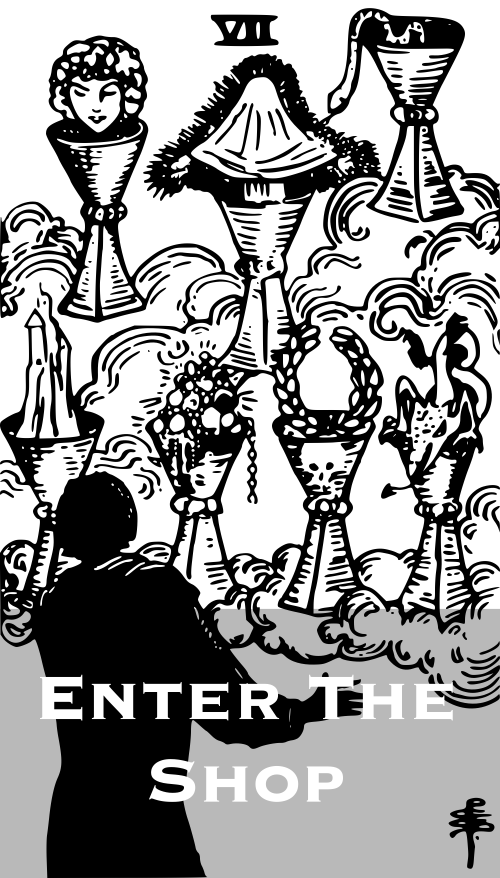
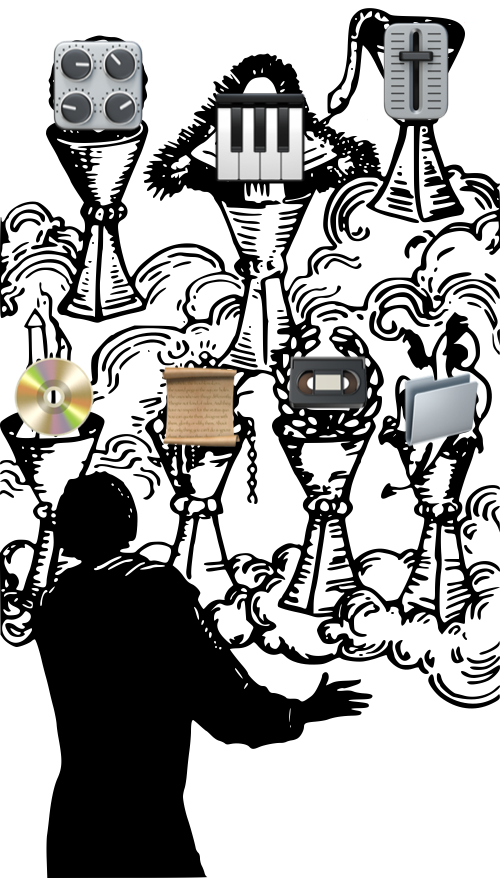
stuff

diff --git a/pages/index.tsx b/pages/index.tsx
@@ -1,13 +1,13 @@
-import React from 'react';
+import React, { useState } from 'react';
 import Layout from '../components/Layout';
-import PageFooter from '../components/PageFooter';
+import BrandBadge from '../components/BrandBadge';
 import allCards, { cardsById } from '../lib/cards';
-import { Image, Box, Text, Link, Heading, Flex, Card } from 'theme-ui';
+import { Button, Image, Box, Text, Link, Heading, Flex, Card } from 'theme-ui';
 import { GetStaticProps } from 'next';
 import { NextSeo } from 'next-seo';
 
 const url = `https://luthier.computer`;
-const description = 'tech tarot deck';
+const description = 'magical instruments';
 
 const Index = () => {
   let selected = null;
@@ -16,8 +16,10 @@ const Index = () => {
   let data = cardsById['c-7'];
   cards.push(data);
   selected = data;
-  const title = `${data.name} ✧ luthier.computer`;
+  const title = `✧ luthier.computer`;
   const previewImage = `http://luthier.computer/rider-waite/${selected.id}.png`;
+  const [weSelected, setWeSelected] = useState<Boolean>(true);
+  const [starterSelected, setStarterSelected] = useState<Boolean>(true);
 
   return (
     <Layout>
@@ -41,19 +43,61 @@ const Index = () => {
                 sx={{ mx: 1, mt: 3, mb: 3, width: 300, flexDirection: 'column', alignItems: 'center' }}
               >
                 {headings && <Text sx={{ fontFamily: 'mono', fontWeight: 'bold', mb: 2 }}>{headings[i]}</Text>}
-                <a href="http://luthiercomputer.gumroad.com">
-                  <Card variant={`card_foil`}>
-                    <Image
-                      src={`/rider-waite/${card.id}.png`}
-                      sx={{ transform: card.reversed ? 'rotate(180deg);' : 'none' }}
-                    />
-                  </Card>
-                </a>
+                <Card variant={`card_foil`}>
+                  <Image
+                    src={`/rider-waite/${card.id}.png`}
+                    sx={{ transform: card.reversed ? 'rotate(180deg);' : 'none' }}
+                  />
+                </Card>
               </Flex>
             ))}
           </Flex>
         </Flex>
-        <PageFooter />
+        <BrandBadge />
+        <Box sx={{ textAlign: 'center', px: 2 }}>
+          <Link href="https://soundcloud.com/luthier_computer">soundcloud</Link>
+        </Box>
+        <Box sx={{ textAlign: 'center', mt: 2, px: 2 }}>
+          <Text>
+            <Button
+              variant="button_link"
+              onClick={() => {
+                setWeSelected(!weSelected);
+              }}
+            >
+              We
+            </Button>{' '}
+            make stuff to help you make music.
+          </Text>
+        </Box>
+        {weSelected && (
+          <Box>
+            <Box sx={{ textAlign: 'center', px: 2 }}>
+              <Link href="https://robertkarpay.bandcamp.com">Robert Karpay</Link> – composer
+            </Box>
+            <Box sx={{ textAlign: 'center', px: 2 }}>
+              <Link href="https://twitter.com/bgdotjpg">Ben Guo</Link> – builder, occasional composer
+            </Box>
+          </Box>
+        )}
+        <Box sx={{ textAlign: 'center', px: 2 }}>
+          <Text>
+            <Button
+              variant="button_link"
+              onClick={() => {
+                setStarterSelected(!starterSelected);
+              }}
+            >
+              The Edison
+            </Button>{' '}
+            is our prototype instrument.
+          </Text>
+        </Box>
+        {starterSelected && (
+          <Box>
+            <Box sx={{ textAlign: 'center', my: 0, px: 2 }}>WIP</Box>
+          </Box>
+        )}
       </Box>
     </Layout>
   );

diff --git a/pages/_app.js b/pages/_app.js
@@ -3,13 +3,13 @@ import Head from 'next/head';
 import theme from '../theme';
 import { MDXProvider } from '@mdx-js/react';
 import Layout from '../components/Layout';
-import PageFooter from '../components/PageFooter';
+import BrandBadge from '../components/BrandBadge';
 import '../styles.css';
 import React from 'react';
 import { DefaultSeo, NextSeo } from 'next-seo';
 
 const title = '✧ luthier.computer ✧';
-const description = 'tech tarot deck';
+const description = 'magical instruments';
 
 // Markdown pages use this
 const components = {
@@ -40,7 +40,7 @@ const components = {
         </Card>
       </Layout>
       <Box mb={3} />
-      <PageFooter />
+      <BrandBadge />
     </div>
   ),
 };

diff --git a/components/BrandBadge.tsx b/components/BrandBadge.tsx
@@ -1,8 +1,8 @@
 import { Flex, Box, Text, Link, Badge } from 'theme-ui';
 
-const PageFooter = (props) => {
+const BrandBadge = (props) => {
   return (
-    <Box sx={{ textAlign: 'center', mt: 0, mb: 4, px: 2 }}>
+    <Box sx={{ textAlign: 'center', px: 2 }}>
       <Box sx={{ flex: '1 1 auto' }} />
       <Flex sx={{ alignItems: 'center' }}>
         <Box sx={{ flex: '1 1 auto' }} />
@@ -21,4 +21,4 @@ const PageFooter = (props) => {
     </Box>
   );
 };
-export default PageFooter;
+export default BrandBadge;

diff --git a/theme.js b/theme.js
@@ -36,6 +36,16 @@ export default {
       },
       fontFamily: 'mono',
     },
+    button_link: {
+      px: 0,
+      py: 2,
+      color: 'text',
+      bg: 'transparent',
+      fontSize: 3,
+      cursor: 'pointer',
+      textDecoration: 'underline',
+      // fontFamily: 'mono',
+    },
   },
   links: {
     link_footer: {
